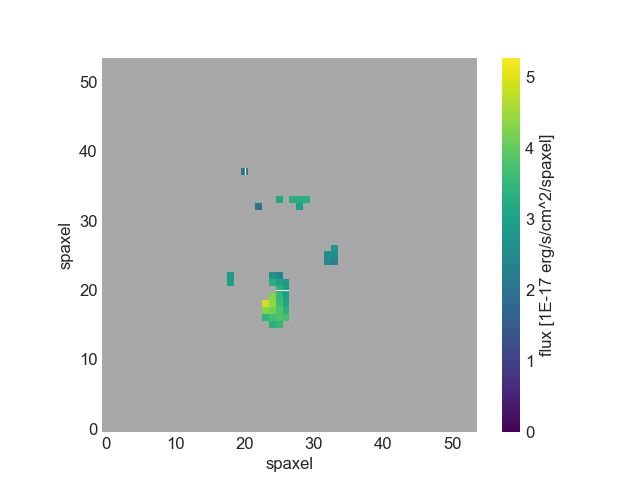
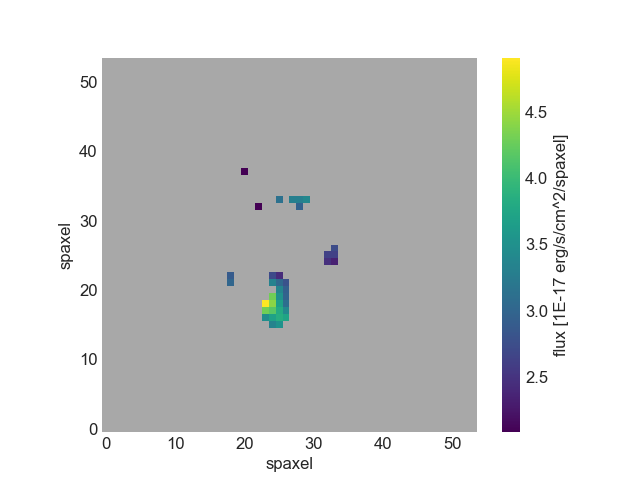
tweaks lean tutorial

diff --git a/docs/sphinx/tutorials/lean_tutorial.rst b/docs/sphinx/tutorials/lean_tutorial.rst
@@ -1,4 +1,4 @@
-.. _example-project-sample-selection:
+.. _marvin-lean-tutorial:
 
 .. ipython:: python
    :suppress:
@@ -16,13 +16,6 @@ This tutorial runs through all of the steps for doing a project with Marvin from
 
 **Project**: Calculate the [NII]/Halpha ratio for star-forming spaxels in galaxies with stellar mass between :math:`10^{10}` and :math:`10^{11}`.
 
-.. If you already know which galaxies you want, skip to :ref:`example-project-get-maps`.
-
-.. Otherwise, select a sample of galaxies by running a query on the MaNGA database either via:
-.. - `Marvin-Web <https://sas.sdss.org/marvin2/search/>`_
-.. - Marvin-Tools (continue below)
-
-.. _example-project-run-query:
 
 Sample Selection
 ----------------
@@ -56,8 +49,6 @@ Convert to :ref:`marvin-tools-maps` objects:
     galaxies = r.objects
 
 
-.. _example-project-get-maps:
-
 Get Maps
 --------
 
@@ -85,7 +76,7 @@ Plot Halpha map of the second galaxy:
     haflux_map = haflux_maps[1]
     fig, ax = haflux_map.plot()
 
-.. image:: _static/haflux_7992-6101.png
+.. image:: ../_static/haflux_7992-6101.png
 
 
 The dark blue region near the center of the galaxy looks suspicious, so let's take a look at the model fits of those spaxels.
@@ -94,8 +85,6 @@ The easiest way is to navigate to the `Galaxy page for 7992-6101 <https://sas.sd
 
 However, we can also plot the spectrum and model fits in Python. First, we can find the coordinates of a spaxel by moving our cursor around the interactive matplotlib plotting window. When the cursor is over the spaxel of interest, the coordinates will appear in the lower right.
 
-
-.. _example-project-spectrum:
 
 Get Spectrum and Model Fit
 --------------------------
@@ -119,12 +108,11 @@ Now let's plot the spectrum and model fit:
     ax.set_xlabel('observed wavelength [{}]'.format(spax.spectrum.wavelength_unit));
     ax.set_ylabel('flux [{}]'.format(spax.spectrum.units));
 
-.. image:: _static/spec_7992-6101.png
+.. image:: ../_static/spec_7992-6101.png
 
 Clearly something went horribly horribly wrong in the fit. In fact, the DAP did not even try to fit a emission line component to the Halpha and [NII] lines. This is unfortunate, but let's press on.
 
 
-.. _example-project-bpt:
 
 Plot BPT Diagram
 ----------------
@@ -135,9 +123,9 @@ The :meth:`~marvin.tools.maps.Maps.get_bpt` returns masks for spaxels of differe
 
     masks, fig = haflux_map.maps.get_bpt()
 
-.. image:: _static/bpt_7992-6101.png
+.. image:: ../_static/bpt_7992-6101.png
 
-For a detailed description see :ref:`marvin-bpt` 
+For a detailed description see :ref:`marvin-bpt`.
 
 
 Select Star-forming Spaxels
@@ -150,28 +138,12 @@ Select the star-forming spaxels that are in the star-forming region of each diag
     sf = masks['sf']['global']
 
 
-Use the DAP bitmasks to flag spaxels that we don't want to include:
+Create the image to display and the background using the star-forming mask:
 
 .. ipython:: python
 
-    def parse_dap_bits(mask):
-        novalue = (mask & 2**4) > 0
-        badvalue = (mask & 2**5) > 0
-        matherror = (mask & 2**6) > 0
-        badfit = (mask & 2**7) > 0
-        donotuse = (mask & 2**30) > 0
-        return np.logical_or.reduce((novalue, badvalue, matherror, badfit, donotuse))
-
-    no_data = parse_dap_bits(haflux_map.mask)
-
-
-Identify the star-forming spaxels that are not flagged by the DAP and create a masked array (``np.ma.array``) that will become the image we display.
-
-.. ipython:: python
-
-    sf_mask = ~np.logical_and(sf, ~no_data)
-    image = np.ma.array(haflux_map.value, mask=sf_mask)
-    mask_nodata = np.ma.array(np.ones(haflux_map.value.shape), mask=~sf_mask)
+    image = np.ma.array(haflux_map.value, mask=~sf)
+    mask_nodata = np.ma.array(np.ones(haflux_map.value.shape), mask=sf)
 
 If we wanted to do additional calculations instead of creating a plot, this masked array would also be the object on which we would perform operations.
 
@@ -192,14 +164,14 @@ Plot the star-forming spaxels:
 .. ipython:: python
 
     fig, ax = plt.subplots()
-    ax.imshow(mask_nodata, cmap=A8A8A8, zorder=1, origin='lower');
-    p = ax.imshow(image, cmap='viridis', origin='lower')
+    ax.imshow(mask_nodata, cmap=A8A8A8, origin='lower', zorder=1);
+    p = ax.imshow(image, cmap='viridis', origin='lower', zorder=10)
     ax.set_xlabel('spaxel');
     ax.set_ylabel('spaxel');
     cb = fig.colorbar(p)
     cb.set_label('flux [{}]'.format(haflux_map.unit))
 
-.. image:: _static/haflux_sf_7992-6101.png
+.. image:: ../_static/haflux_sf_7992-6101.png
 
 .. We should make the map plotting a util.plot function instead of a tools.map function.
 .. Want to be able to take in arbitrary masks (e.g., BPT masks)
@@ -223,14 +195,14 @@ Plot the [NII]/Halpha flux ratio for the star-forming spaxels:
 .. ipython:: python
 
     fig, ax = plt.subplots()
-    ax.imshow(mask_nodata, cmap=A8A8A8, zorder=1, origin='lower');
+    ax.imshow(mask_nodata, cmap=A8A8A8, origin='lower', zorder=1);
     ax.set_xlabel('spaxel');
     ax.set_ylabel('spaxel');
-    p = ax.imshow(np.ma.array(nii_ha.value, mask=sf_mask), origin='lower', cmap='viridis')
+    p = ax.imshow(np.ma.array(nii_ha.value, mask=~sf), origin='lower', cmap='viridis', zorder=10)
     cb = fig.colorbar(p)
     cb.set_label('[NII]6585 / Halpha flux ratio')
 
-.. image:: _static/niiha_sf_7992-6101.png
+.. image:: ../_static/niiha_sf_7992-6101.png
 
 
 Next Steps
